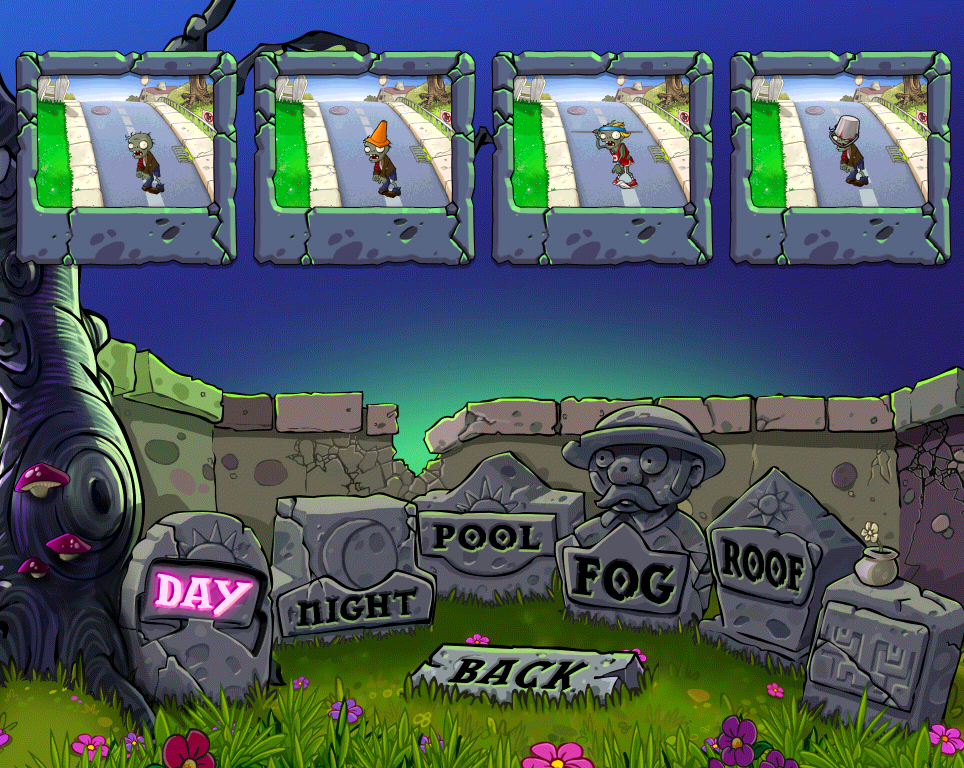
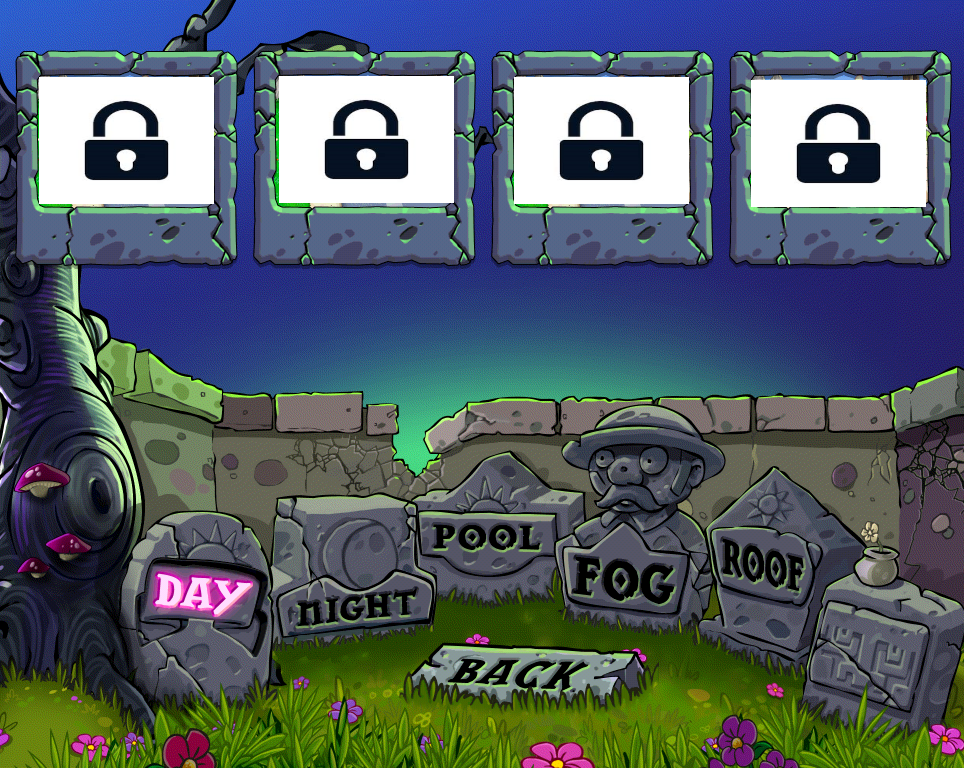
bakyard started

diff --git a/out/production/JavaFxApplication/almnac.css b/out/production/JavaFxApplication/almnac.css
@@ -103,3 +103,8 @@
      -fx-background-image: url("level-3.png");
      -fx-background-size: 100% 100%;
  }
+.backyardbg
+{
+    -fx-background-image: url("backyard.jpg");
+    -fx-background-size: 100% 100%;
+}

diff --git a/src/almnac.css b/src/almnac.css
@@ -103,3 +103,8 @@
      -fx-background-image: url("level-3.png");
      -fx-background-size: 100% 100%;
  }
+.backyardbg
+{
+    -fx-background-image: url("backyard.jpg");
+    -fx-background-size: 100% 100%;
+}

diff --git a/src/USER.java b/src/USER.java
@@ -1,12 +1,18 @@
+import javafx.animation.PathTransition;
 import javafx.event.ActionEvent;
+import javafx.fxml.FXML;
 import javafx.fxml.FXMLLoader;
 import javafx.fxml.Initializable;
 import javafx.scene.Node;
 import javafx.scene.Parent;
 import javafx.scene.Scene;
 import javafx.scene.control.Button;
+import javafx.scene.layout.AnchorPane;
+import javafx.scene.layout.VBox;
+import javafx.scene.shape.Circle;
 import javafx.stage.Stage;
 import javafx.stage.Window;
+import javafx.util.Duration;
 
 import java.io.IOException;
 import java.io.Serializable;
@@ -14,16 +20,20 @@ import java.net.URL;
 import java.util.ResourceBundle;
 
 public class USER    {
+    @FXML
     public Button L1;
+    @FXML
+
     public Button L2;
     public Button L3;
-    String name;
-    String username;
-    int level;
+    private GAME g1;
+    private String name;
+    private String username;
+    private int level;
    public USER(String name,String username)
     {this.name=name;
     this.username=username;
-    level=1;
+    g1=new GAME(1);
     }
 //    private void hey()
 //    {}
@@ -32,32 +42,68 @@ public class USER    {
         name="";
         username="";
         level=0;
+        g1=new GAME();
     }
 
 
 
     public void LEVELSELECTED(ActionEvent actionEvent) throws IOException {
-
+int selecetdlevel=0;
         if (((Button)actionEvent.getSource()).getId().equals("L1"))
-            System.out.println("level 1 selected");
-        if (((Button)actionEvent.getSource()).getId().equals("L2"))
-            System.out.println("level 2 selected");
-        if (((Button)actionEvent.getSource()).getId().equals("L3"))
-            System.out.println("level 3 selected");
+        {    System.out.println("level 1 selected");
+       selecetdlevel=1;
+            Window n1=((Node)actionEvent.getSource()).getScene().getWindow();
+       g1.startlevel(selecetdlevel, n1);
+        }
+      else  if (((Button)actionEvent.getSource()).getId().equals("L2"))
+        {System.out.println("level 2 selected");
+selecetdlevel=2;        }
+      else  if (((Button)actionEvent.getSource()).getId().equals("L3"))
+        {     System.out.println("level 3 selected");
+selecetdlevel=3;        }
+        if(g1.Level_CHECK(selecetdlevel)){
         Parent root ;
 
-        root= FXMLLoader.load(getClass().getResource("SELECT-LEVEL.fxml"));
+        root= FXMLLoader.load(getClass().getResource("BACKYARD.fxml"));
 
         Stage window=(Stage)((Node) actionEvent.getSource()).getScene().getWindow();
 
         window.setScene(new Scene(root, 600  , 400));
     }
-     void select_level(Window n1) throws IOException
-    { Parent root ;
+   else
+       System.out.println("level not unlocked");
+   }
+    void StartNewGame(Window n1) throws IOException
+    {   Parent root  ;
         root= FXMLLoader.load(USER.class.getResource("SELECT-LEVEL.fxml"));
+        Node btn =new Button();
+        ((AnchorPane)root).getChildren().add(btn);
         Stage window= (Stage) n1;
         window.setScene(new Scene(root, 600  , 400));
-    }
+
+        PathTransition pathTransition = new PathTransition();
+        pathTransition.setDuration(Duration.millis(2500));
+        //Set node to be animated
+        pathTransition.setNode(btn);
+        //Rotate button through a circular path locate at (200,200) with radius 50
+        pathTransition.setPath(new Circle(200, 200, 50));
+
+        pathTransition.play();
+
+//        if(g1.getLevel()>=1)
+//            {System.out.println("heyyyyyyyy");
+//                L1.setVisible(true);
+//            }
+//        if(g1.getLevel()>=2)
+//            {
+//                L2.setVisible(true);
+//            }
+//        if(g1.getLevel()>=3)
+//            {
+//                L3.setVisible(true);
+//            }
+
+        }
 
 
     public void GOBACK(ActionEvent actionEvent) throws IOException {
@@ -68,6 +114,5 @@ public class USER    {
         Stage window=(Stage)((Node) actionEvent.getSource()).getScene().getWindow();
 
         window.setScene(new Scene(root, 600  , 400));
-
     }
 }

diff --git a/src/GAME.java b/src/GAME.java
@@ -1,0 +1,80 @@
+import javafx.animation.PathTransition;
+import javafx.event.ActionEvent;
+import javafx.fxml.FXMLLoader;
+import javafx.scene.Node;
+import javafx.scene.Parent;
+import javafx.scene.Scene;
+import javafx.scene.control.Button;
+import javafx.scene.image.Image;
+import javafx.scene.image.ImageView;
+import javafx.scene.layout.AnchorPane;
+import javafx.scene.layout.GridPane;
+import javafx.scene.shape.Circle;
+import javafx.scene.shape.Line;
+import javafx.stage.Stage;
+import javafx.stage.Window;
+import javafx.util.Duration;
+import sun.plugin.javascript.navig.Anchor;
+
+import java.io.FileInputStream;
+import java.io.IOException;
+
+public class GAME {
+
+    public GridPane gridddd;
+    private int level;
+
+    public GAME(int i) {
+        level=i;
+    }
+    Boolean Level_CHECK(int i)
+    {
+        return i<=level;
+    }
+public GAME()
+    {
+        level=0;
+
+    }
+
+    public int getLevel() {
+        return level;
+    }
+
+    public void startlevel(int a, Window n1) throws IOException {
+        Parent root ;
+
+        root= FXMLLoader.load(getClass().getResource("BACKYARD.fxml"));
+
+        Stage window=(Stage)n1;
+        Image image = new Image("zombiewalk.gif",55,55,false,false);
+        ImageView i1=new ImageView(image);
+        i1.maxHeight(55);
+        i1.maxWidth(53);
+        Node n=i1;
+        n.setLayoutX(710);
+        n.setLayoutY(34);
+        PathTransition pathTransition = new PathTransition();
+        pathTransition.setDuration(Duration.millis(2500));
+        //Set node to be animated
+        pathTransition.setNode(n);
+        //Rotate button through a circular path locate at (200,200) with radius 50
+        pathTransition.setPath(new Line( ));
+
+        n.setOnMouseClicked(e->pathTransition.play());
+        ((AnchorPane)root).getChildren().add(n);
+        window.setScene(new Scene(root, 800  , 400));
+
+
+//        for (Node m1:((AnchorPane)root).getChildren()) {
+//            if (m1 instanceof GridPane) {
+//                System.out.println("hiii");;
+//               ((GridPane)m1).add(i1,8,0);
+//
+//
+//            }
+//        }
+
+
+    }
+}

diff --git a/src/MAINMENU.java b/src/MAINMENU.java
@@ -20,6 +20,7 @@ public class MAINMENU extends Application {
     int choice;
     USER u1;
     public TextField namefield;
+
     public TextField username;
 
     public void SUBMIT(ActionEvent actionEvent) throws IOException {
@@ -42,10 +43,10 @@ public class MAINMENU extends Application {
 
         }
     else
-        {
+        {Window n1=    ((Node)actionEvent.getSource()).getScene().getWindow();
             u1=new USER(name,user_name);
-        Window n1=    ((Node)actionEvent.getSource()).getScene().getWindow();
-            u1.select_level(n1);
+
+            u1.StartNewGame(n1);
 
         }}
     public void StartScreen()

diff --git a/src/BACKYARD.java b/src/BACKYARD.java
@@ -1,0 +1,21 @@
+import javafx.application.Application;
+import javafx.fxml.FXMLLoader;
+import javafx.scene.Node;
+import javafx.scene.Parent;
+import javafx.scene.Scene;
+import javafx.scene.control.Button;
+import javafx.scene.layout.GridPane;
+import javafx.stage.Stage;
+
+import java.io.IOException;
+
+public class BACKYARD   {
+    public GridPane gridddd;
+
+    public static void main(String[] args) throws IOException {
+        Parent root  ;
+        root= FXMLLoader.load(USER.class.getResource("SELECT-LEVEL.fxml"));
+        Node btn =new Button();
+    }
+
+}
